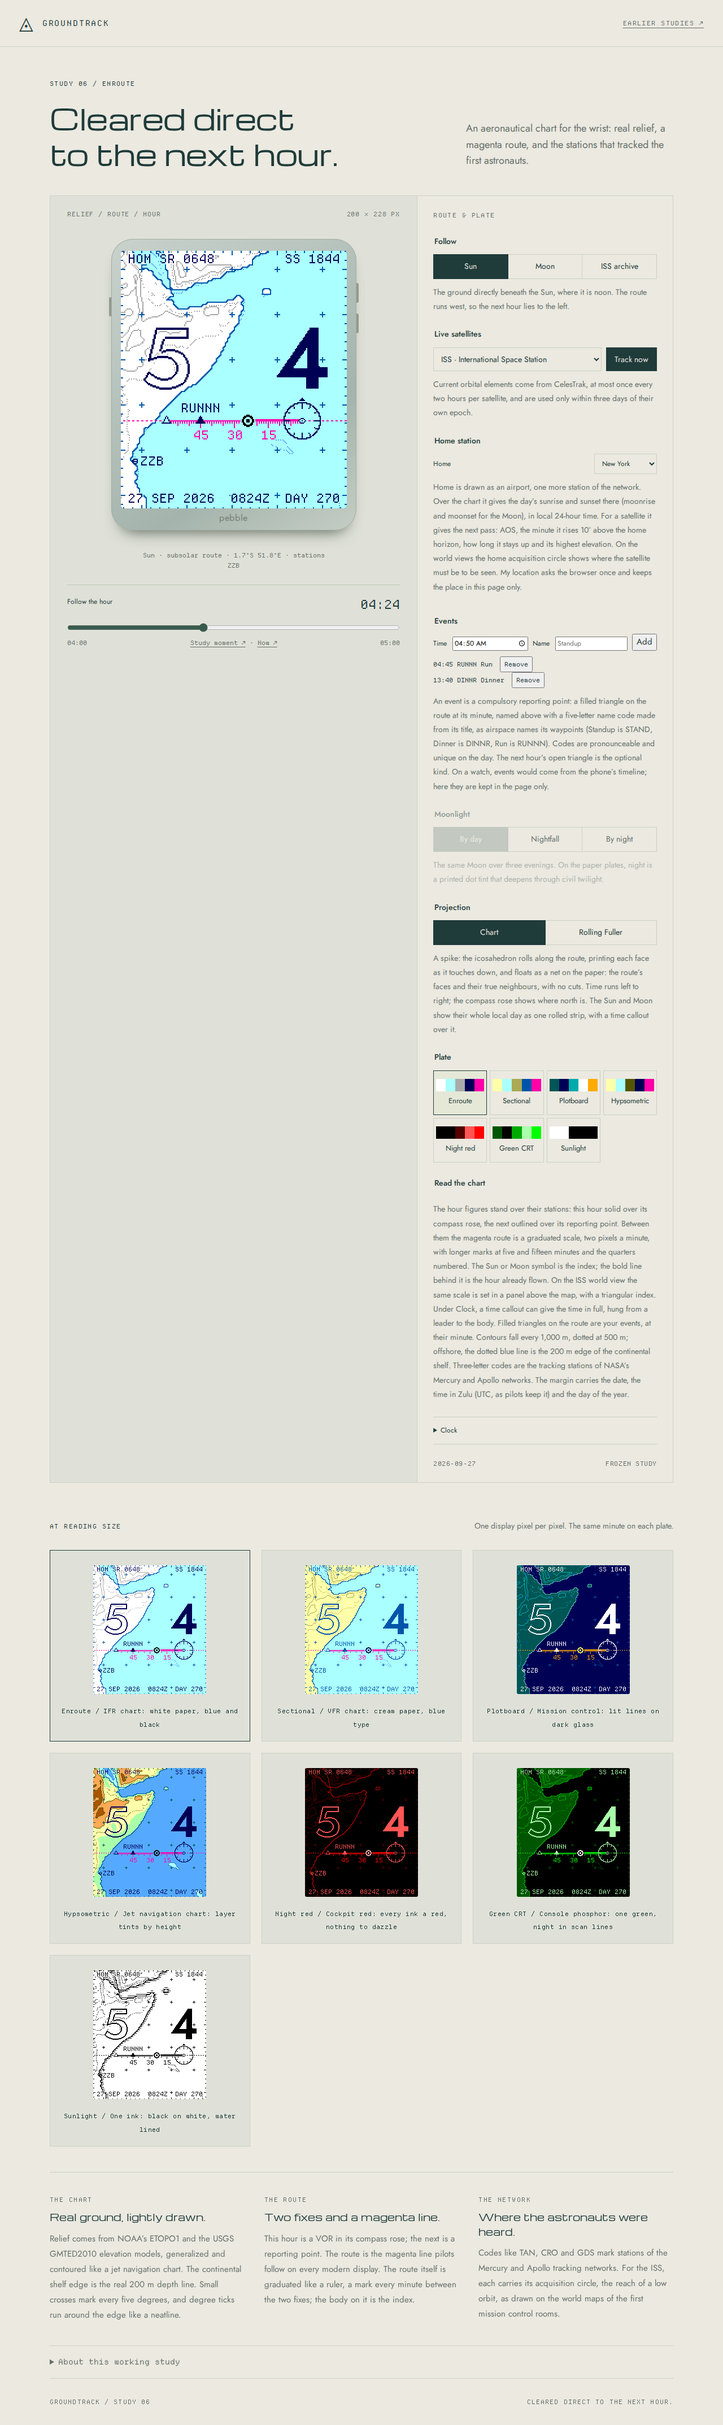
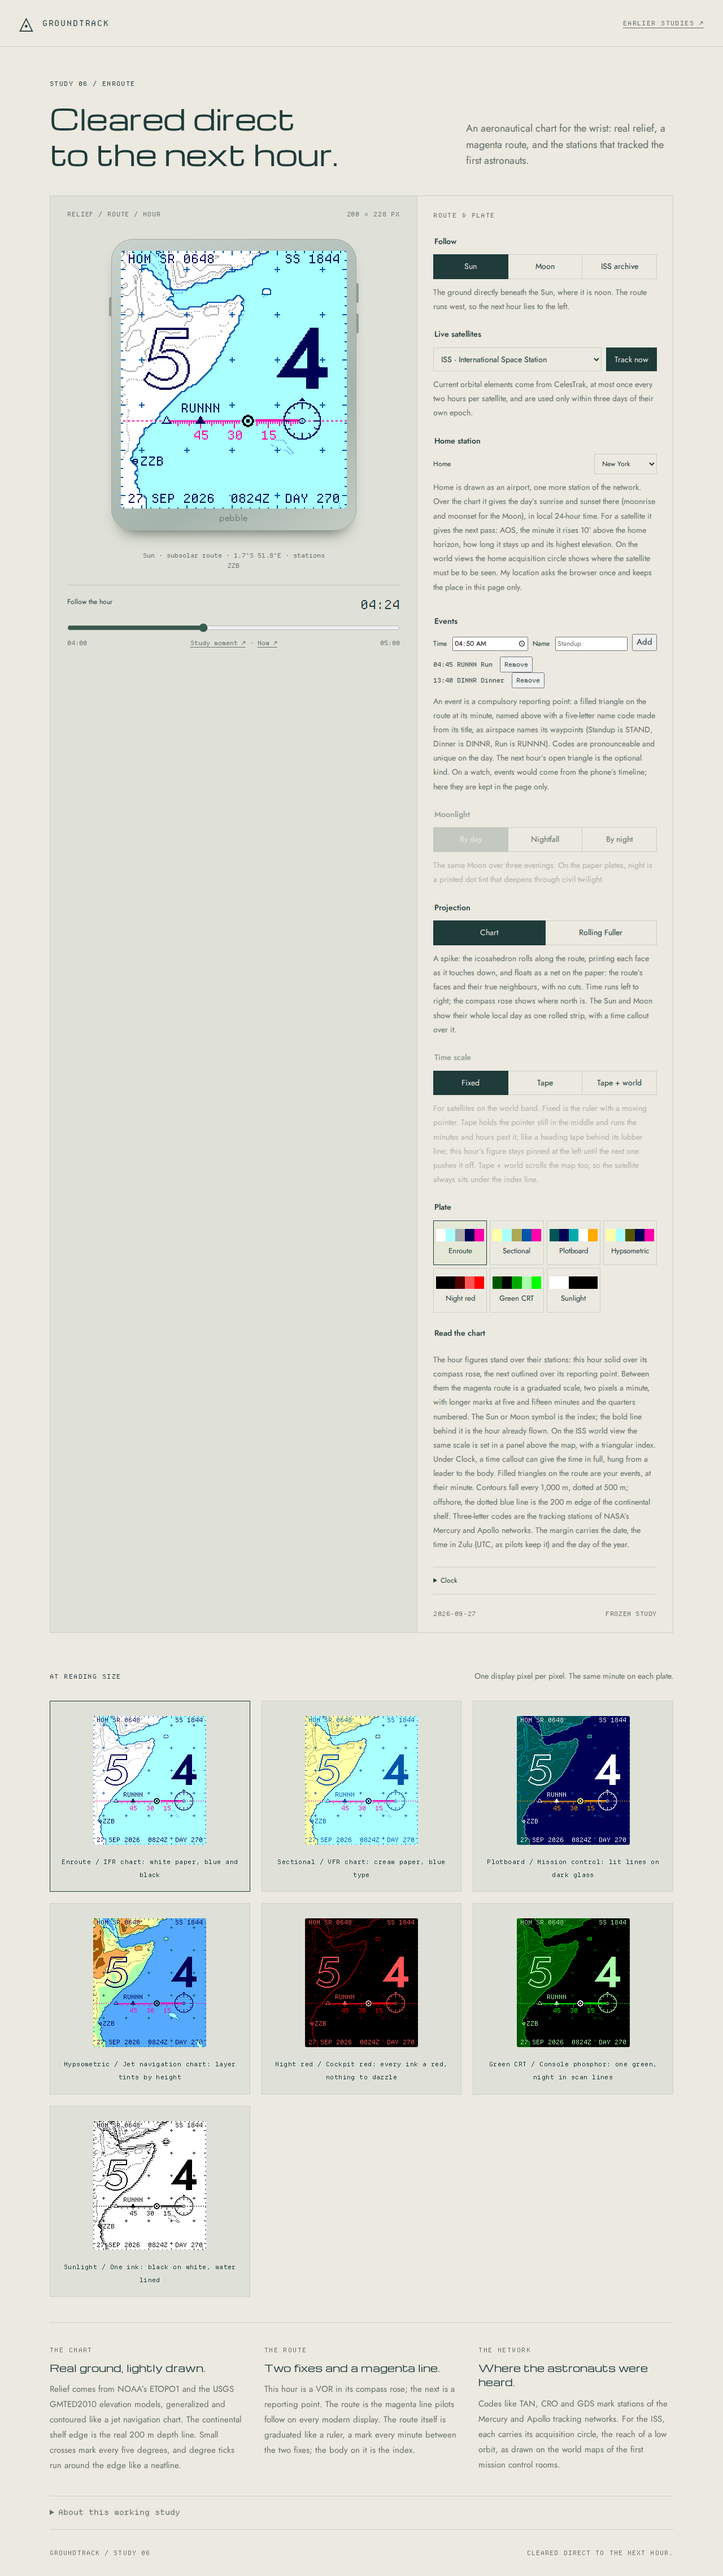
Experiment: the satellite time scale as a sliding tape
On the world band the index can stand still in the middle while the
minutes and hours run past at 3 px a minute, like a heading tape. Hour
figures ride their marks, this hour pinned at the left edge until the next
pushes it off. With 'Tape + world' the map slides too, centred on the
satellite, and the index line runs down through the map to it. The fixed
ruler stays the default.

Claude-Session: https://claude.ai/code/session_013jrbqnwLffJYPYurYaCgSZ

diff --git a/src/enroute-render.js b/src/enroute-render.js
@@ -155,7 +155,7 @@ const FIX=['....#....','...###...','...###...','..#####..','..#####..','.#######
 const AIRPORT=['.....#.....','.....#.....','....###....','...#...#...','..#.....#..','###.....###','..#.....#..','...#...#...','....###....','.....#.....','.....#.....'];
 const BAYER=[0,8,2,10,12,4,14,6,3,11,1,9,15,7,13,5];
 const HEXAGON=['..###..','.#...#.','#.....#','.#...#.','..###..'],TRIANGLE=['....#....','...#.#...','...#.#...','..#...#..','..#...#..','.#.....#.','#########'];
-export function renderEnroute({camera,ground,relief,light:zones,plate,epoch,timeZone,clock24,readout=false,home=null,events=[]}){
+export function renderEnroute({camera,ground,relief,light:zones,plate,epoch,timeZone,clock24,readout=false,home=null,events=[],tape='fixed'}){
   const pal=PLATES[plate],buf=new Uint8ClampedArray(W*H*3),mat=ground.material,sun=position('sun',Math.floor(epoch/MINUTE)*MINUTE).dir;
   const light=pal.night==='screen'?new Uint8Array(W*H):zones,land=mat.map(m=>m===LAND?1:0);
   const zoneAt=(x,y)=>light[Math.max(0,Math.min(H-1,Math.round(y)))*W+Math.max(0,Math.min(W-1,Math.round(x)))];
@@ -361,7 +361,7 @@ export function renderEnroute({camera,ground,relief,light:zones,plate,epoch,time
   // instrument tape: minute graduations, tall hour marks under the figures
   // and a solid triangular index, running the way the route runs.
   const parts=clockParts(epoch,timeZone),h=Number(parts.h),hour=String(clock24?h:h%12||12),next=String(clock24?(h+1)%24:(h+1)%12||12);
-  const forward=c1.x>c0.x,X0=camera.world?SCALE.x0:Math.min(c0.x,c1.x),X1=camera.world?SCALE.x1:Math.max(c0.x,c1.x),at=m=>forward?X0+(X1-X0)*m/60:X1-(X1-X0)*m/60;
+  const forward=c1.x>c0.x,X0=camera.world?(tape==='fixed'?SCALE.x0:0):Math.min(c0.x,c1.x),X1=camera.world?(tape==='fixed'?SCALE.x1:W-1):Math.max(c0.x,c1.x),at=m=>forward?X0+(X1-X0)*m/60:X1-(X1-X0)*m/60;
   const minutes=Math.max(0,Math.min(60,(epoch-s0.epoch)/MINUTE)),ix=Math.round(at(Math.floor(minutes)));
   const outline=(solid,ring)=>{const inside=new Set(solid.map(([a,b])=>a+','+b)),near=[];for(let r=1;r<=ring;r++)near.push([r,0],[-r,0],[0,r],[0,-r]);return solid.filter(([a,b])=>near.some(([dx,dy])=>!inside.has((a+dx)+','+(b+dy))));};
   const place=(end,w)=>Math.max(4,Math.min(W-4-w,Math.round(end-w/2)));
@@ -389,7 +389,38 @@ export function renderEnroute({camera,ground,relief,light:zones,plate,epoch,time
     letter(shown,ink('ink'));letter(figure,ink('ink'));
     return {figure,box:bounds(figure)};
   };
-  if(camera.world){
+  if(camera.world&&tape!=='fixed'){
+    // The sliding tape: the index stands still in the middle and the tape
+    // runs past it, three pixels a minute, future to the right, as a date
+    // or heading tape scrolls behind its lubber line. Hour figures ride the
+    // tape on their marks, this hour solid and the next outlined, and are
+    // cut off at the edges like any tape. With 'slide', the world scrolls
+    // too, and the index line runs on down through the map to the body.
+    const {baseline:B,panel:P}=SCALE,sc=()=>pal.spaceInk,fill=pal.route[0],IX=W/2,PX=3,now=Math.floor(minutes);
+    for(let y=0;y<P;y++)for(let x=0;x<W;x++)plot(buf,x,y,pal.space);
+    for(let x=0;x<W;x++){plot(buf,x,P-1,sc());plot(buf,x,B,sc());if(x<=IX)plot(buf,x,B+1,fill);}
+    const hourAt=m=>{const q=Number(clockParts(s0.epoch+m*MINUTE,timeZone).h);return String(clock24?q:q%12||12);};
+    for(let m=now-Math.ceil(IX/PX)-12;m<=now+Math.ceil(IX/PX)+12;m++){
+      const x=IX+(m-now)*PX,mm=((m%60)+60)%60,len=mm===0?12:mm%15===0?6:mm%5===0?4:2;
+      for(let d=1;d<=len;d++)plot(buf,x,B+d,sc());
+      if(mm===0)for(let d=1;d<=6;d++)plot(buf,x,B-d,sc());
+      else if(mm%15===0){const label=String(mm),lw=textWidth(LABEL,label);for(const [a,b] of textPixels(LABEL,label,x-Math.floor(lw/2)+1,B+17))plot(buf,a,b,sc());}
+    }
+    // This hour's figure rides its mark until the mark leaves the left edge,
+    // then stays pinned there, as a tape's sticky label, until the next
+    // hour's figure arrives and pushes it off.
+    const m0=now-((now%60)+60)%60,size=FIGURE.scale,cur=hourAt(m0),nxt=hourAt(m0+60),cw=runWidth(cur,size),nw=runWidth(nxt,size);
+    const nx=Math.round(IX+(m0+60-now)*PX-nw/2),cx=Math.min(Math.max(Math.round(IX+(m0-now)*PX-cw/2),4),nx-cw-8);
+    const onTape=px=>px.filter(([a])=>a>=0&&a<W);hourPixels=onTape(figurePixels(cur,size,cx,4));nextSolid=onTape(figurePixels(nxt,size,nx,4));
+    for(const [a,b] of hourPixels)plot(buf,a,b,sc());for(const [a,b] of outline(nextSolid,1))plot(buf,a,b,sc());
+    // The index: a hairline in the route's ink through the whole tape, and
+    // the solid pointer on the baseline.
+    for(let y=0;y<P-1;y++)plot(buf,IX,y,fill);
+    for(let k=0;k<6;k++)for(let d=-k;d<=k;d++)plot(buf,IX+d,B-7+k,pal.space);
+    for(let k=0;k<5;k++)for(let d=-k;d<=k;d++)plot(buf,IX+d,B-6+k,sc());
+    if(tape==='slide')for(let y=top;y<my-8;y++)if(((y-top)>>1)%2===0)plot(buf,IX,y,ink('route')(IX,y));
+    index={x:IX,y:B};
+  }else if(camera.world){
     const {baseline:B,panel:P}=SCALE,sc=()=>pal.spaceInk,fill=pal.route[0];
     for(let y=0;y<P;y++)for(let x=0;x<W;x++)plot(buf,x,y,pal.space);
     for(let x=0;x<W;x++)plot(buf,x,P-1,sc());
@@ -511,15 +542,15 @@ export function localDate(epoch,timeZone){
 export class EnrouteRenderer{
   constructor(atlas,meters){this.atlas=atlas;this.meters=meters;this.stats={geometryBuilds:0,lightBuilds:0,renders:0};}
   render(state){
-    const {body,epoch,timeZone,clock24,plate}=state,readout=!!state.readout,home=state.home||null,events=state.events||[],start=civilHour(epoch,timeZone);
-    const projection=state.projection==='fuller'?'fuller':'chart',geometryKey=`${projection}/${body}/${start}/${timeZone}`,lightKey=`${geometryKey}/${Math.floor(epoch/MINUTE)}`;
+    const {body,epoch,timeZone,clock24,plate}=state,readout=!!state.readout,home=state.home||null,events=state.events||[],tape=['tape','slide'].includes(state.tape)?state.tape:'fixed',start=civilHour(epoch,timeZone);
+    const projection=state.projection==='fuller'?'fuller':'chart',slide=tape==='slide'&&projection==='chart'&&body!=='sun'&&body!=='moon',minute=Math.floor(epoch/MINUTE)*MINUTE,geometryKey=`${projection}/${body}/${start}/${timeZone}${slide?`/${minute}`:''}`,lightKey=`${geometryKey}/${Math.floor(epoch/MINUTE)}`;
     if(this.geometryKey!==geometryKey){
-      this.camera=projection==='fuller'?(body==='sun'||body==='moon'?rollCamera(body,start,{span:192,day:localDay(epoch,timeZone)}):rollCamera(body,start,{span:180})):chartCamera(body,start,{span:SPAN});this.ground=groundLayer(this.camera,this.atlas);this.relief=reliefLayer(this.camera,this.meters);
+      this.camera=projection==='fuller'?(body==='sun'||body==='moon'?rollCamera(body,start,{span:192,day:localDay(epoch,timeZone)}):rollCamera(body,start,{span:180})):chartCamera(body,start,{span:SPAN,center:slide?minute:null});this.ground=groundLayer(this.camera,this.atlas);this.relief=reliefLayer(this.camera,this.meters);
       this.geometryKey=geometryKey;this.stats.geometryBuilds++;
     }
     if(this.lightKey!==lightKey){this.light=lightLayer(this.ground,epoch);this.lightKey=lightKey;this.stats.lightBuilds++;}
-    const sceneKey=`${lightKey}/${timeZone}/${clock24}/${plate}/${readout}/${home?`${home.code}${home.lat},${home.lon}`:''}/${events.map(e=>`${e.epoch}${e.label}`).join('|')}`;if(this.sceneKey===sceneKey)return this.last;
-    const out=renderEnroute({camera:this.camera,ground:this.ground,relief:this.relief,light:this.light,plate,epoch,timeZone,clock24,readout,home,events});
+    const sceneKey=`${lightKey}/${timeZone}/${clock24}/${plate}/${readout}/${tape}/${home?`${home.code}${home.lat},${home.lon}`:''}/${events.map(e=>`${e.epoch}${e.label}`).join('|')}`;if(this.sceneKey===sceneKey)return this.last;
+    const out=renderEnroute({camera:this.camera,ground:this.ground,relief:this.relief,light:this.light,plate,epoch,timeZone,clock24,readout,home,events,tape});
     const zones=[0,0,0];for(const z of this.light)zones[z]++;
     this.sceneKey=sceneKey;this.stats.renders++;
     const rgba=new Uint8ClampedArray(W*H*4);for(let i=0;i<W*H;i++){rgba.set(out.buf.subarray(i*3,i*3+3),i*4);rgba[i*4+3]=255;}

diff --git a/index.html b/index.html
@@ -12,6 +12,7 @@
 <fieldset id="events"><legend>Events</legend><form id="event-form" class="event-form"><label class="select-label" for="event-time">Time<input id="event-time" type="time" value="04:50" required></label><label class="select-label" for="event-label">Name<input id="event-label" type="text" maxlength="40" placeholder="Standup" required></label><button type="submit">Add</button></form><ul id="event-list" class="event-list"></ul><p class="help">An event is a compulsory reporting point: a filled triangle on the route at its minute, named above with a five-letter name code made from its title, as airspace names its waypoints (Standup is STAND, Dinner is DINNR, Run is RUNNN). Codes are pronounceable and unique on the day. The next hour’s open triangle is the optional kind. On a watch, events would come from the phone’s timeline; here they are kept in the page only.</p></fieldset>
 <fieldset id="moon-light"><legend>Moonlight</legend><div class="segmented"><button data-observation="day" aria-pressed="true">By day</button><button data-observation="dusk" aria-pressed="false">Nightfall</button><button data-observation="night" aria-pressed="false">By night</button></div><p class="help">The same Moon over three evenings. On the paper plates, night is a printed dot tint that deepens through civil twilight.</p></fieldset>
 <fieldset><legend>Projection</legend><div class="segmented"><button data-projection="chart" aria-pressed="true">Chart</button><button data-projection="fuller" aria-pressed="false">Rolling Fuller</button></div><p class="help" id="projection-note">A spike: the icosahedron rolls along the route, printing each face as it touches down, and floats as a net on the paper: the route’s faces and their true neighbours, with no cuts. Time runs left to right; the compass rose shows where north is. The Sun and Moon show their whole local day as one rolled strip, with a time callout over it.</p></fieldset>
+<fieldset id="time-scale"><legend>Time scale</legend><div class="segmented"><button data-tape="fixed" aria-pressed="true">Fixed</button><button data-tape="tape" aria-pressed="false">Tape</button><button data-tape="slide" aria-pressed="false">Tape + world</button></div><p class="help">For satellites on the world band. Fixed is the ruler with a moving pointer. Tape holds the pointer still in the middle and runs the minutes and hours past it, like a heading tape behind its lubber line; this hour’s figure stays pinned at the left until the next one pushes it off. Tape + world scrolls the map too, so the satellite always sits under the index line.</p></fieldset>
 <fieldset><legend>Plate</legend><div id="enroute-plates" class="theme-options"></div></fieldset>
 <fieldset><legend>Read the chart</legend><p class="help">The hour figures stand over their stations: this hour solid over its compass rose, the next outlined over its reporting point. Between them the magenta route is a graduated scale, two pixels a minute, with longer marks at five and fifteen minutes and the quarters numbered. The Sun or Moon symbol is the index; the bold line behind it is the hour already flown. On the ISS world view the same scale is set in a panel above the map, with a triangular index. Under Clock, a time callout can give the time in full, hung from a leader to the body. Filled triangles on the route are your events, at their minute. Contours fall every 1,000 m, dotted at 500 m; offshore, the dotted blue line is the 200 m edge of the continental shelf. Three-letter codes are the tracking stations of NASA’s Mercury and Apollo networks. The margin carries the date, the time in Zulu (UTC, as pilots keep it) and the day of the year.</p></fieldset>
 <details class="art-options"><summary>Clock</summary><div><label class="select-label" for="enroute-zone">Clock zone<select id="enroute-zone"><option value="America/New_York">Eastern time</option><option value="UTC">UTC</option><option value="Europe/London">London</option><option value="Asia/Kolkata">Kolkata</option></select></label><label class="art-checkbox"><input type="checkbox" id="enroute-24"> 24-hour figures</label><label class="art-checkbox"><input type="checkbox" id="enroute-readout"> Time callout</label></div></details><div class="art-study-date"><span id="enroute-date"></span><span>FROZEN STUDY</span></div></aside></section>

diff --git a/src/enroute-app.js b/src/enroute-app.js
@@ -15,7 +15,7 @@ const NOTES={
   moon:'The ground directly beneath the Moon. It also runs west, a little more slowly than the Sun.',
   iss:'An archived orbit from 5 June 2019. The station laps most of the world in an hour, so the whole world is the chart.'
 };
-const state={body:'sun',observation:'day',epoch:DEMOS.sun,timeZone:'America/New_York',clock24:false,plate:'enroute',readout:false,projection:'chart',home:HOMES['America/New_York'],events:STUDY_EVENTS};
+const state={body:'sun',observation:'day',epoch:DEMOS.sun,timeZone:'America/New_York',clock24:false,plate:'enroute',readout:false,projection:'chart',home:HOMES['America/New_York'],events:STUDY_EVENTS,tape:'fixed'};
 let main,studyEpoch=state.epoch;
 const proofs={};
 function paint(canvas,buf){
@@ -24,8 +24,9 @@ function paint(canvas,buf){
 }
 function render(){
   const r=main.render(state);$('enroute-watch').getContext('2d').putImageData(new ImageData(r.rgba,W,H),0,0);
-  for(const plate of Object.keys(PLATES))paint(proofs[plate],plate===state.plate?r.buf:renderEnroute({camera:main.camera,ground:main.ground,relief:main.relief,light:main.light,plate,epoch:state.epoch,timeZone:state.timeZone,clock24:state.clock24,readout:state.readout,home:state.home,events:state.events}).buf);
-  for(const key of ['body','observation','plate','projection'])document.querySelectorAll(`[data-${key}]`).forEach(b=>b.setAttribute('aria-pressed',String(b.dataset[key]===state[key])));
+  for(const plate of Object.keys(PLATES))paint(proofs[plate],plate===state.plate?r.buf:renderEnroute({camera:main.camera,ground:main.ground,relief:main.relief,light:main.light,plate,epoch:state.epoch,timeZone:state.timeZone,clock24:state.clock24,readout:state.readout,home:state.home,events:state.events,tape:state.tape}).buf);
+  $('time-scale').classList.toggle('muted',state.body==='sun'||state.body==='moon'||state.projection==='fuller');
+  for(const key of ['body','observation','plate','projection','tape'])document.querySelectorAll(`[data-${key}]`).forEach(b=>b.setAttribute('aria-pressed',String(b.dataset[key]===state[key])));
   document.querySelectorAll('[data-observation]').forEach(b=>b.disabled=state.body!=='moon');$('moon-light').classList.toggle('muted',state.body!=='moon');
   $('enroute-minute').value=Math.round((state.epoch-r.start)/MINUTE);$('enroute-time').textContent=r.time;
   $('range-start').textContent=clockParts(r.start,state.timeZone).text;$('range-end').textContent=clockParts(r.start+60*MINUTE,state.timeZone).text;
@@ -113,6 +114,7 @@ try{
     state.observation=b.dataset.observation;state.epoch=OBSERVATIONS[state.observation];studyEpoch=state.epoch;render();
   }));
   document.querySelectorAll('[data-plate]').forEach(b=>b.addEventListener('click',()=>{state.plate=b.dataset.plate;render();}));
+  document.querySelectorAll('[data-tape]').forEach(b=>b.addEventListener('click',()=>{state.tape=b.dataset.tape;render();}));
   document.querySelectorAll('[data-projection]').forEach(b=>b.addEventListener('click',()=>{state.projection=b.dataset.projection;render();}));
   $('enroute-now').addEventListener('click',()=>{
     try{state.epoch=Math.floor(Date.now()/MINUTE)*MINUTE;render();}

diff --git a/src/chart-render.js b/src/chart-render.js
@@ -40,7 +40,7 @@ export const CHARTS={
 // line at TRACK_Y. The ISS covers about 240 degrees of longitude in an hour,
 // so it gets the whole world in a band, with its hours set in the margins.
 export const SPAN=128,TRACK_Y=150,WORLD={south:-60,north:72,bottom:H-10};
-export function chartCamera(body,start,{span=SPAN}={}){
+export function chartCamera(body,start,{span=SPAN,center=null}={}){
   const world=body!=='sun'&&body!=='moon',step=world?MINUTE/4:MINUTE,lead=(world?20:40)*MINUTE;
   const raw=sampleTrack(body,start-lead,start+60*MINUTE+lead,step);
   // Unwrap longitude so the route is continuous across the antimeridian.
@@ -49,7 +49,10 @@ export function chartCamera(body,start,{span=SPAN}={}){
     return {...p,lon:p.lon+turn,hour:p.epoch>=start&&p.epoch<=start+60*MINUTE};
   });
   const hour=track.filter(p=>p.hour),lons=hour.map(p=>p.lon),lats=hour.map(p=>p.lat);
-  const lon0=(Math.max(...lons)+Math.min(...lons))/2;
+  // By default the view centres the hour; with center (an epoch) the world
+  // slides under a fixed index instead, the body always in the middle.
+  const here=center===null?null:track.reduce((a,b)=>Math.abs(b.epoch-center)<Math.abs(a.epoch-center)?b:a);
+  const lon0=here?here.lon:(Math.max(...lons)+Math.min(...lons))/2;
   let scale,k,lat0,y0;
   if(world){
     // Fit the hour's longitudes; the band keeps its true proportions.
@@ -68,7 +71,7 @@ export function chartCamera(body,start,{span=SPAN}={}){
     return best;
   };
   const band=world?{top:Math.ceil(toScreen(WORLD.north,0).y),bottom:Math.floor(toScreen(WORLD.south,0).y)}:{top:0,bottom:H};
-  return {body,start,world,track,scale,band,toScreen,toGround,project,stations:[hour[0],hour.at(-1)],key:`${body}/${start}`};
+  return {body,start,world,track,scale,band,toScreen,toGround,project,stations:[hour[0],hour.at(-1)],key:`${body}/${start}${here?`/${center}`:''}`};
 }
 
 // Land coverage by bilinear interpolation of the quarter-degree atlas. Each

diff --git a/docs/STUDY-06.md b/docs/STUDY-06.md
@@ -12,6 +12,7 @@ The Study 05 chart, redrawn in the language of aeronautical charts and of NASA's
 - **The route.** The magenta line, which pilots follow on every glass cockpit. It is bold behind the marker, fine ahead and dashed before and after the hour. Ticks mark five minutes, with longer ticks labelled 15, 30 and 45 at the quarters, as on a plotted ground track.
 - **Fixes.** This hour's station is a VOR: a hexagon inside a compass rose, with 30° ticks, longer cardinal ticks and a north arrowhead. The next hour is an open triangle, a reporting point. The map is north-up, so the rose shows true north, not magnetic variation.
 - **The time scale.** On the Sun and Moon charts the route itself is the scale. The hour's two stations sit exactly 120 px apart, so each minute is exactly two pixels along the magenta line. There is a graduation every minute, longer marks every five and fifteen minutes, and the quarters are numbered 15, 30 and 45 beneath. The body's own symbol is the index moving along it. The two hour figures stand in the chart over their stations at one size and on one baseline: this hour solid over its compass rose, the next outlined over its reporting point. The figures, graduations and symbols read as one drawing. On the ISS world band the same reading is set in a panel above the map, built like an instrument tape: 180 px for the hour, three pixels a minute, tall hour marks under the figures and a solid triangular index, running the way the route runs. An optional **time callout** gives the time in full below the route, labelled the way a chart labels a feature. The minutes are set smaller than the hour on the same baseline, as on a cockpit clock, and the time hangs from a shoulder, the cartographer's elbow leader, that runs back to the body. The leader is cased with a hairline of paper so it crosses relief cleanly. It breaks for lettering, as a printed line does, and takes whichever side keeps it clearest. A pointer with an arrowhead, a VFR-style pennant and a plain dotted line were also tried; at this pixel size the arrowhead and pennant are too small to read, and the dotted line was too plain. The earlier radar-style data block, the minutes raised beside the hour and a separate scale panel over the zoomed charts were all tried and dropped.
+- **Experiment: the sliding tape.** On the satellite world band the ruler can instead be a tape (Time scale: Tape). The index stands still in the middle of the panel, a hairline in the route's ink with the solid pointer on the baseline. The minutes and hours run past it at three pixels a minute, future to the right, like a heading tape behind its lubber line or the day strip of a time-slide face. The hour figures ride the tape on their marks: this hour solid, the next outlined, cut off at the edges like any tape. When this hour's mark leaves the left edge, its figure stays pinned there as a sticky label until the next hour's figure pushes it off, so the hour is always readable. With Tape + world the map slides too, centred on the satellite each minute, and the index line runs on, dotted, down through the map to the satellite: one line reads the time and the place. The fixed ruler remains the default. Sliding the world rebuilds the map every minute in the browser; on a watch it is a horizontal wrap of the same equirectangular bitmap, but that is unmeasured.
 - **Date.** The zoomed views print the local date and its day of the year in the bottom margin (`27 SEP 2026 · DAY 270`). The day of the year is how Mission Control's clocks counted days. Between them sits the same moment in Zulu time, UTC as pilots and mission control keep it (`0824Z`), centred in the space the date and day leave. The ISS margin keeps its archive date and altitude above the band and sets Zulu time at the right under it.
 - **The present.** The body's own symbol: ☉ for the Sun, the Moon in its calculated phase, or a small station for the ISS.
 - **The network.** Twenty-four stations of the Mercury (1961–63) and Apollo (1967–75) tracking networks, drawn as circled points with their network codes. Examples include TAN (Tananarive, Madagascar), ZZB (Zanzibar), CRO (Carnarvon) and GDS (Goldstone). When labels would collide, the station earlier in the list wins.
